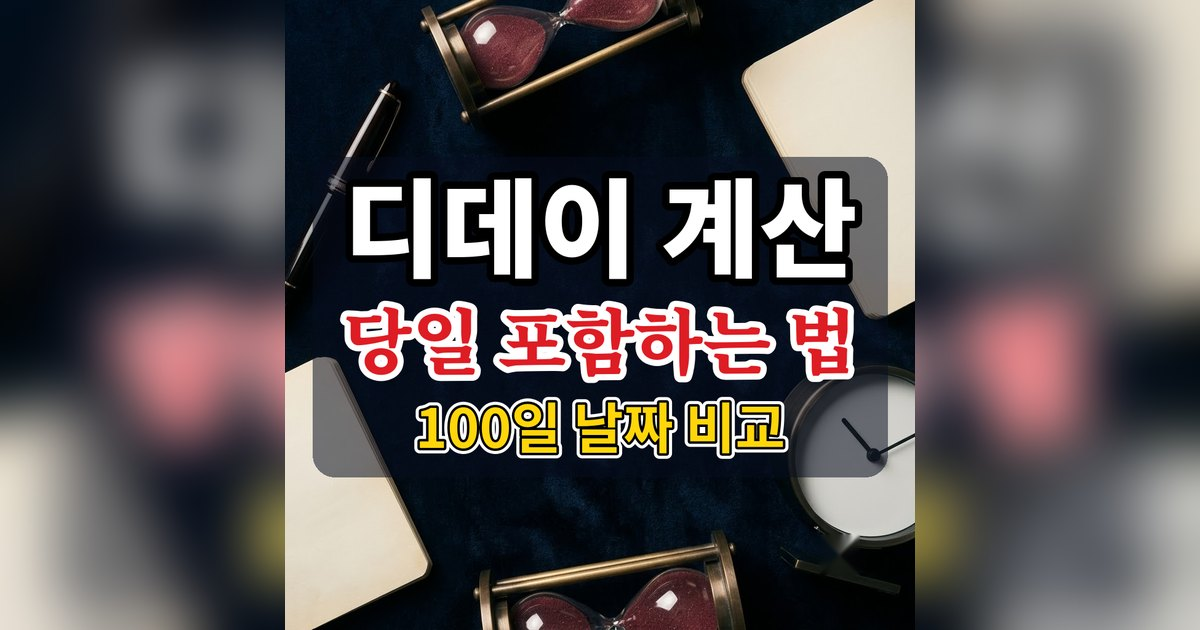
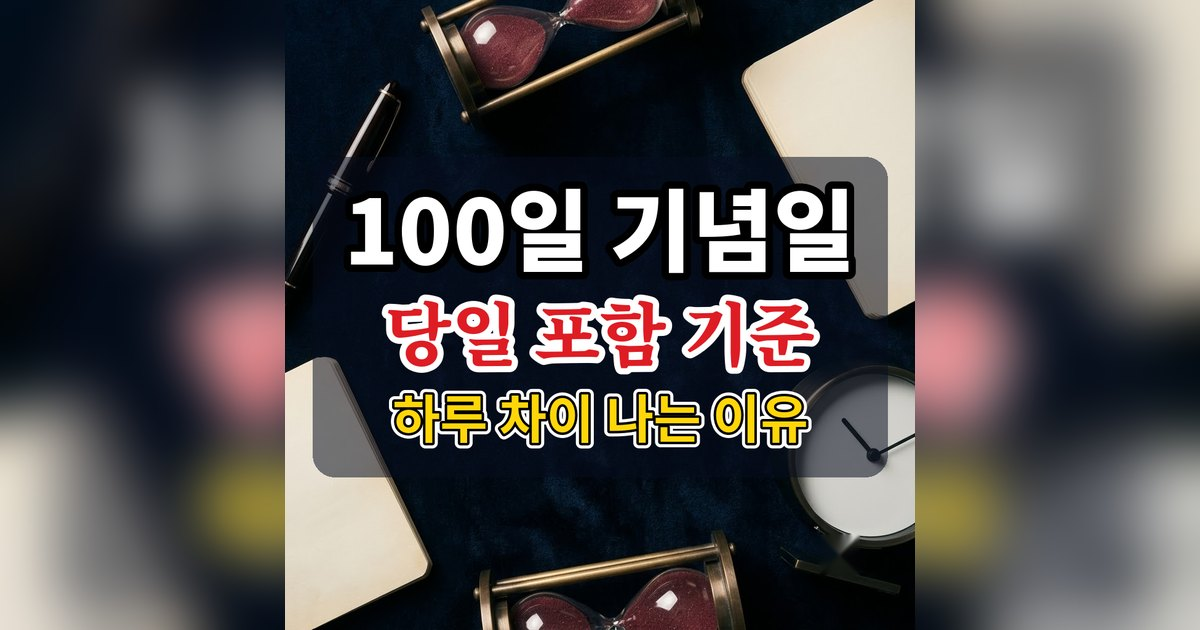
v57

diff --git a/assets/site.js b/assets/site.js
@@ -80,6 +80,16 @@ var SECTIONS = [
       { href: "info-lotto.html",  name: "로또",   desc: "확률, 당첨금과 세금, 수령 방법" }
     ],
     items: [
+      { g:"부동산", d:"2026-10-06", t:"broker.html", href:"info-broker-rent.html", name:"월세 중개수수료 계산법: 환산보증금 공식과 상한요율 한눈에 보기", desc:"월세 5만 원이 오르면 환산보증금은 500만 원 늘어납니다" },
+      { g:"금융", d:"2026-10-06", t:"insurance.html", href:"info-nps-rate.html", name:"국민연금 보험료율 인상으로 내 월급 얼마 줄까? 월 300만원 실수령액 변화 계산", desc:"2033년까지 매년 0.5%포인트씩 오릅니다" },
+      { g:"금융", d:"2026-10-06", t:"cartax.html", href:"info-cartax-prepay.html", name:"자동차세 연납 할인 혜택 총정리: 1월부터 9월까지 공제율 및 절세 금액 비교", desc:"1월에 내면 약 4.58%, 9월에 내면 약 1.25% 공제" },
+      { g:"부동산", d:"2026-10-06", t:"acquisition.html", href:"info-multi-home-tax.html", name:"다주택자 취득세 중과 세율 총정리: 2주택 8%·3주택 12% 적용 기준", desc:"같은 6억 집이 660만 원에서 7,440만 원으로" },
+      { g:"금융", d:"2026-10-06", t:"salary.html", href:"info-income-tax.html", name:"월급 소득세 계산 방법: 연봉별 실수령액과 부양가족 감면 혜택 정리", desc:"연봉은 3.3배인데 소득세는 약 30배입니다" },
+      { g:"금융", d:"2026-10-06", t:"jeonse.html", href:"info-rent-credit.html", name:"월세 세액공제 조건부터 환급액 계산까지 한눈에 알아보기", desc:"월세의 15~17%를 최대 170만 원까지 돌려받습니다" },
+      { g:"금융", d:"2026-10-06", t:"salary.html", href:"info-medical-credit.html", name:"연말정산 의료비 세액공제 조건부터 공제율까지 한눈에 보기", desc:"총급여의 3%를 넘은 의료비의 15%를 돌려받습니다" },
+      { g:"부동산", d:"2026-10-06", t:"pyeong.html", href:"info-officetel-area.html", name:"오피스텔 전용률의 비밀: 아파트와 실평수 차이 나는 결정적 이유", desc:"같은 30평인데 실평수가 6평 차이납니다" },
+      { g:"생활", d:"2026-10-06", t:"birthday.html", href:"info-birthday.html", name:"살아온 날 계산법: 내가 태어난 지 며칠째인지 10000일 기념일 확인하는 법", desc:"1만 일은 만 27세 무렵에 옵니다" },
+      { g:"생활", d:"2026-10-06", t:"datecalc.html", href:"info-datecalc.html", name:"날짜 더하기 계산법: '한 달 뒤'와 '30일 뒤'가 다른 이유", desc:"1월 31일에서 한 달 뒤는 2월 28일입니다" },
       { g:"생활", d:"2026-10-05", t:"dday.html", href:"info-dday.html", name:"디데이 계산법 총정리: 기념일 100일 세는 법과 당일 포함 기준", desc:"같은 100일인데 하루가 달라지는 이유" },
       { g:"생활", d:"2026-10-05", t:"walk.html", href:"info-walk.html", name:"걷기 1만보 칼로리 계산: 체중별 소모량과 속도별 걸리는 시간 완벽 정리", desc:"체중 60kg과 80kg은 98kcal 차이가 납니다" },
       { g:"생활", d:"2026-10-05", t:"calorie.html", href:"info-calorie.html", name:"하루 필요 칼로리 계산법: 성별·활동량별 권장 칼로리 완벽 정리", desc:"활동량에 따라 하루 860kcal 차이가 납니다" },
@@ -111,10 +121,10 @@ var SECTIONS = [
       { g:"부동산", d:"2026-09-08", t:"jeonse.html", href:"info-jeonse.html",  name:"전세 계약할 때 주의사항 총정리: 전입신고 대항력 시점부터 등기부등본 확인법까지", desc:"효력은 다음 날 0시부터" },
       { g:"생활", d:"2026-09-08", t:"age.html", href:"info-age.html",       name:"만 나이 계산법 총정리: 세는나이·연나이 차이점과 술·담배 연나이 예외 기준", desc:"태어나면 0세입니다" },
       { g:"생활", d:"2026-09-08", t:"age.html", href:"info-pension.html",   name:"기초연금 수급 조건 완벽 정리: 소득인정액 계산법부터 부부감액 예방법까지", desc:"재산도 소득으로 환산합니다" },
-      { g:"로또", d:"2026-09-07", t:"lotto-stat.html", href:"guide-odds.html",     name:"로또 1등 확률 계산법: 814만 분의 1 수학적 구조와 조합 원리 분석", desc:"45개 중 6개 고르기" },
-      { g:"로또", d:"2026-09-07", t:"lotto-tax.html", href:"guide-prize.html",    name:"로또 1등 당첨금 세금 계산법: 20억 당첨 시 실제 수령하는 실수령액은 얼마일까?", desc:"3억을 넘으면 33%" },
-      { g:"로또", d:"2026-09-07", t:"lotto-stat.html", href:"guide-stats.html",    name:"로또 번호 통계 분석: 1,244회 출현 횟수로 보는 수학적 무작위성", desc:"무작위라서 생기는 흔들림" },
-      { g:"로또", d:"2026-09-07", t:"lotto-tax.html", href:"guide-claim.html",    name:"로또 당첨금 수령방법 완벽 정리: 금액별 수령 장소와 필수 준비물", desc:"금액에 따라 가는 곳이 다릅니다" }
+      { g:"로또", d:"2026-09-07", t:"lotto.html,lotto-gen.html,lotto-stat.html", href:"guide-odds.html",     name:"로또 1등 확률 계산법: 814만 분의 1 수학적 구조와 조합 원리 분석", desc:"45개 중 6개 고르기" },
+      { g:"로또", d:"2026-09-07", t:"lotto.html,lotto-my.html,lotto-tax.html", href:"guide-prize.html",    name:"로또 1등 당첨금 세금 계산법: 20억 당첨 시 실제 수령하는 실수령액은 얼마일까?", desc:"3억을 넘으면 33%" },
+      { g:"로또", d:"2026-09-07", t:"lotto-gen.html,lotto-stat.html,lotto-my.html", href:"guide-stats.html",    name:"로또 번호 통계 분석: 1,244회 출현 횟수로 보는 수학적 무작위성", desc:"무작위라서 생기는 흔들림" },
+      { g:"로또", d:"2026-09-07", t:"lotto.html,lotto-my.html,lotto-tax.html", href:"guide-claim.html",    name:"로또 당첨금 수령방법 완벽 정리: 금액별 수령 장소와 필수 준비물", desc:"금액에 따라 가는 곳이 다릅니다" }
     ]
   }
 ];
@@ -794,6 +804,16 @@ U.needDate = function(el, name){
     "info-broker.html": '<path d="M4 21V8l8-5 8 5v13"/><path d="M9 21v-6h6v6"/><circle cx="12" cy="10" r="1.5"/>',
     "info-prepay.html": '<circle cx="12" cy="12" r="9"/><path d="M12 7v5l3 2"/>',
     "info-bmi.html": '<path d="M4 8h16l1 12H3z"/><path d="M8 8V6a4 4 0 018 0v2"/><path d="M12 12v4M10 14h4"/>',
+    "info-officetel-area.html": '<path d="M3 17L17 3l4 4L7 21z"/><path d="M7 13l2 2M10 10l2 2M13 7l2 2"/>',
+    "info-medical-credit.html": '<rect x="3" y="3" width="18" height="18" rx="3"/><path d="M12 7v10M7 12h10"/>',
+    "info-rent-credit.html": '<path d="M3 11l9-7 9 7"/><path d="M5 10v10h14V10"/><path d="M9 14h6M9 17h6"/>',
+    "info-income-tax.html": '<circle cx="12" cy="12" r="9"/><path d="M8 9l1.5 6 2.5-5 2.5 5L16 9M7 12h10"/>',
+    "info-multi-home-tax.html": '<path d="M3 11l5-4 5 4"/><path d="M4.5 10v8h7v-8"/><path d="M11 8l5-4 5 4"/><path d="M12.5 7v11h7V7"/>',
+    "info-cartax-prepay.html": '<path d="M5 16l1.5-5a2 2 0 011.9-1.4h7.2a2 2 0 011.9 1.4L19 16"/><rect x="3" y="16" width="18" height="4" rx="1.5"/><circle cx="7.5" cy="18" r=".8"/><circle cx="16.5" cy="18" r=".8"/><path d="M12 3v4M10 5h4"/>',
+    "info-nps-rate.html": '<path d="M3 7h16a2 2 0 012 2v9a2 2 0 01-2 2H5a2 2 0 01-2-2z"/><path d="M3 7l12-3v3"/><circle cx="17" cy="13.5" r="1"/>',
+    "info-broker-rent.html": '<path d="M3 11l9-7 9 7"/><path d="M5 10v10h14V10"/><path d="M9 20v-6h6v6"/>',
+    "info-birthday.html": '<path d="M4 11h16v9H4z"/><path d="M12 11v9M4 15.5h16"/><path d="M12 11c-2-3-5-3-5-1s3 1 5 1zM12 11c2-3 5-3 5-1s-3 1-5 1z"/>',
+    "info-datecalc.html": '<rect x="3" y="5" width="18" height="16" rx="2"/><path d="M3 10h18M8 3v4M16 3v4M12 13v5M9.5 15.5h5"/>',
     "info-dday.html": '<rect x="3" y="5" width="18" height="16" rx="2"/><path d="M3 10h18M8 3v4M16 3v4"/>',
     "info-walk.html": '<path d="M8 4c-2 0-3 2-3 4 0 3 2 4 3 7v3h3v-3c0-3 1-4 1-7 0-2-1-4-4-4z"/><path d="M16 9c-1.5 0-2.5 1.5-2.5 3 0 2.5 1.5 3.5 2 5.5v2h2.5v-2c0-2.5 1-3 1-5.5 0-1.5-1-3-3-3z"/>',
     "info-calorie.html": '<path d="M7 3v8M5 3v5a2 2 0 004 0V3"/><path d="M7 11v10"/><path d="M17 3c-2 1-3 4-3 7h3v11"/>',

diff --git a/assets/style.css b/assets/style.css
@@ -120,7 +120,7 @@ table.t .c{font-size:11.5px;color:var(--dim);font-weight:500}
 
 /* ===== 본문 글 ===== */
 .prose{font-size:15px;line-height:1.85;color:var(--ink2)}
-.prose h3{font-size:16px;font-weight:700;color:var(--ink);margin:26px 0 10px}
+.prose h3{font-size:18px;line-height:1.45;font-weight:800;color:#0E1320;background-color:#9BE564;background-image:linear-gradient(90deg,rgba(255,255,255,.22),rgba(255,255,255,0));border-radius:10px;margin:38px 0 14px;padding:11px 16px}
 .prose h3:first-child{margin-top:0}
 .prose p{margin:0 0 14px}
 .prose ul{margin:0 0 14px;padding-left:19px}
@@ -1101,3 +1101,5 @@ aside.rail{display:none!important}
 .rposts .post.rrow b{flex:1;min-width:0;font-size:14.5px;font-weight:600;line-height:1.45}
 .rposts .post.rrow i{flex:none;font-style:normal;font-size:12px;color:var(--dim);font-weight:600}
 .rposts{margin-top:16px}
+
+@media(max-width:600px){.prose h3{font-size:17px;margin:32px 0 12px;padding:10px 14px}}
